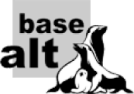
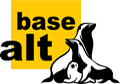
fix(solution): add partners links and replace images

diff --git a/src/components/Partnership/Partnership.js b/src/components/Partnership/Partnership.js
@@ -28,30 +28,45 @@ export function Partnership() {
       </div>
       <div className="column column--partners">
         <div className="partners">
-          <div className="partner">
+          <a
+            className="partner"
+            href="https://www.basealt.ru/"
+            rel="noopener noreferrer"
+            target="_blank"
+          >
             <img
               className="partner__icon"
               src="/images/partner-basealt.png"
               alt="Базальт"
             />
             <div className="partner__name">Базальт</div>
-          </div>
-          <div className="partner">
+          </a>
+          <a
+            className="partner"
+            href="https://myoffice.ru/"
+            rel="noopener noreferrer"
+            target="_blank"
+          >
             <img
               className="partner__icon"
               src="/images/partner-moiofis.png"
               alt="МойОфис"
             />
             <div className="partner__name">МойОфис</div>
-          </div>
-          <div className="partner">
+          </a>
+          <a
+            className="partner"
+            href="https://sailfishos.org/"
+            rel="noopener noreferrer"
+            target="_blank"
+          >
             <img
               className="partner__icon"
-              src="/images/partner-avrora.png"
+              src="/images/partner-avrora-orig.png"
               alt="Аврора"
             />
             <div className="partner__name">Аврора</div>
-          </div>
+          </a>
         </div>
       </div>
     </Section>

diff --git a/src/components/Partnership/Partnership.css b/src/components/Partnership/Partnership.css
@@ -74,7 +74,6 @@
   & .partners {
     display: flex;
     flex-flow: row wrap;
-    /*align-items: stretch;*/
     justify-content: space-between;
 
     @media (--tablet-landscape-viewport) {
@@ -89,6 +88,14 @@
     align-items: center;
     justify-content: space-between;
     margin-top: 20px;
+    filter: grayscale(100%);
+    opacity: 0.5;
+    transition: 200ms ease;
+
+    &:hover {
+      filter: grayscale(0);
+      opacity: 1;
+    }
 
     @media (--tablet-viewport) {
       width: 26%;
